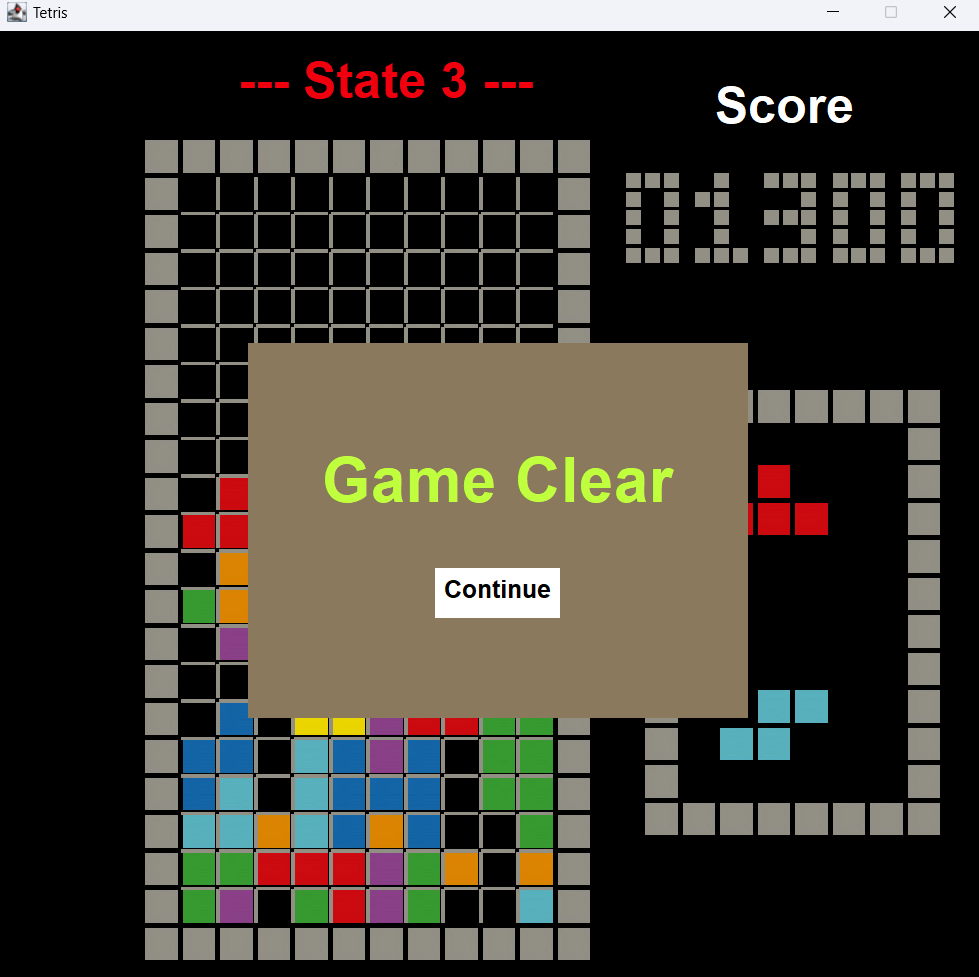
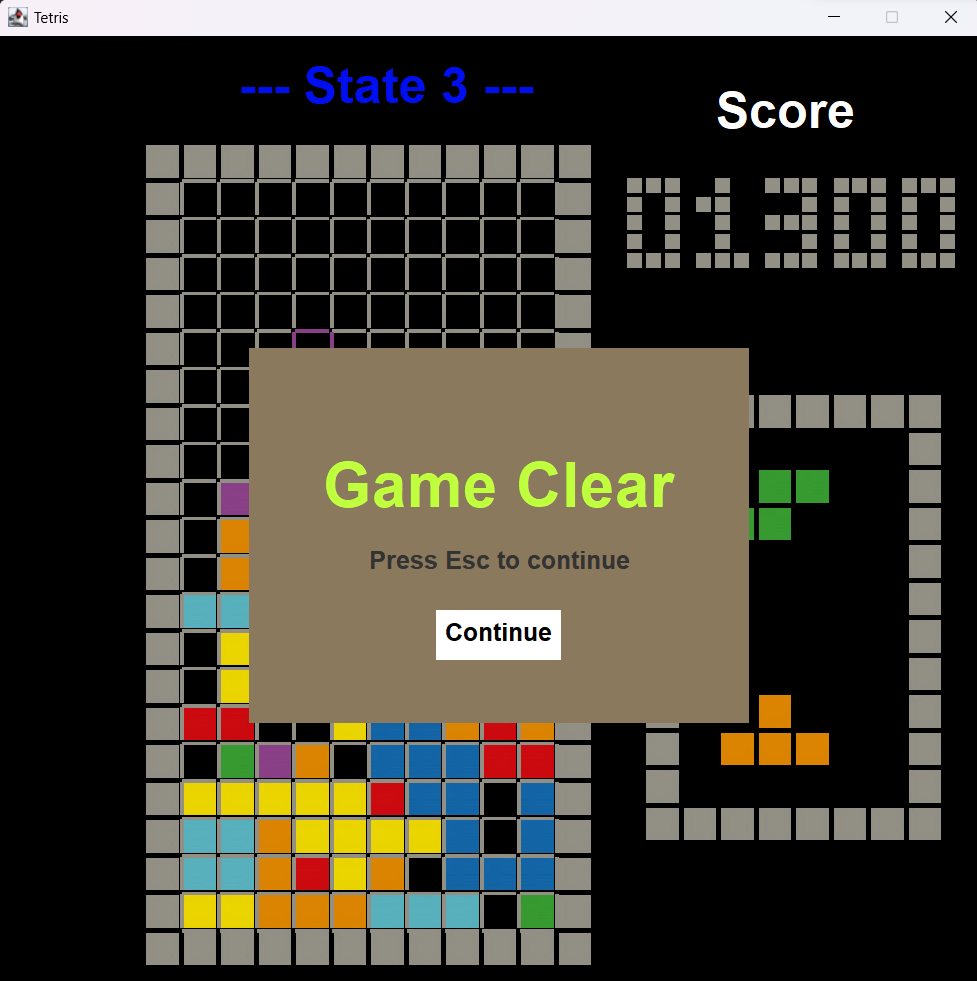
fix misspelling and update display img

diff --git a/src/states/gameState/GameEND.java b/src/states/gameState/GameEND.java
@@ -119,7 +119,7 @@ class GameEndPanel extends JPanel implements ScreenPanel{
         continue_button_panel.add(continue_button_text);
 
         add(continue_button_panel);
-        add(labelMake(PANEL_WIDTH / 2, PANEL_HEIGHT / 2 + 20, "Pressed Esc to continue", 250, 100, 20));
+        add(labelMake(PANEL_WIDTH / 2, PANEL_HEIGHT / 2 + 20, "Press Esc to continue", 250, 100, 20));
 
 
         button_panel_object[0] = continue_button_panel;
